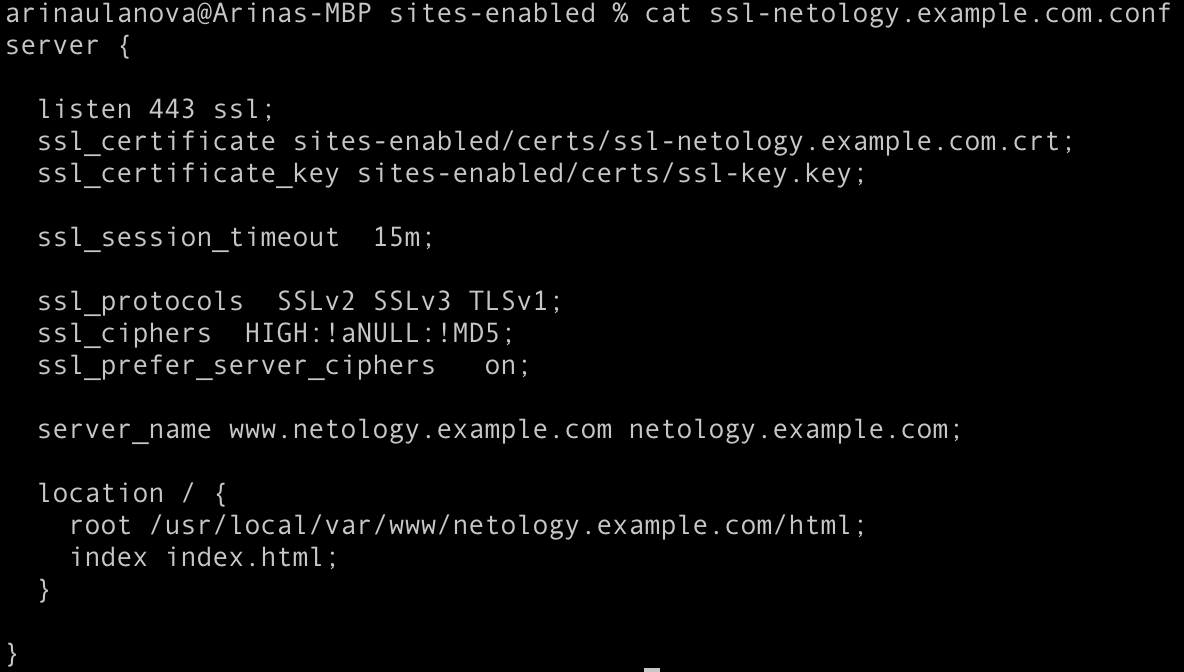
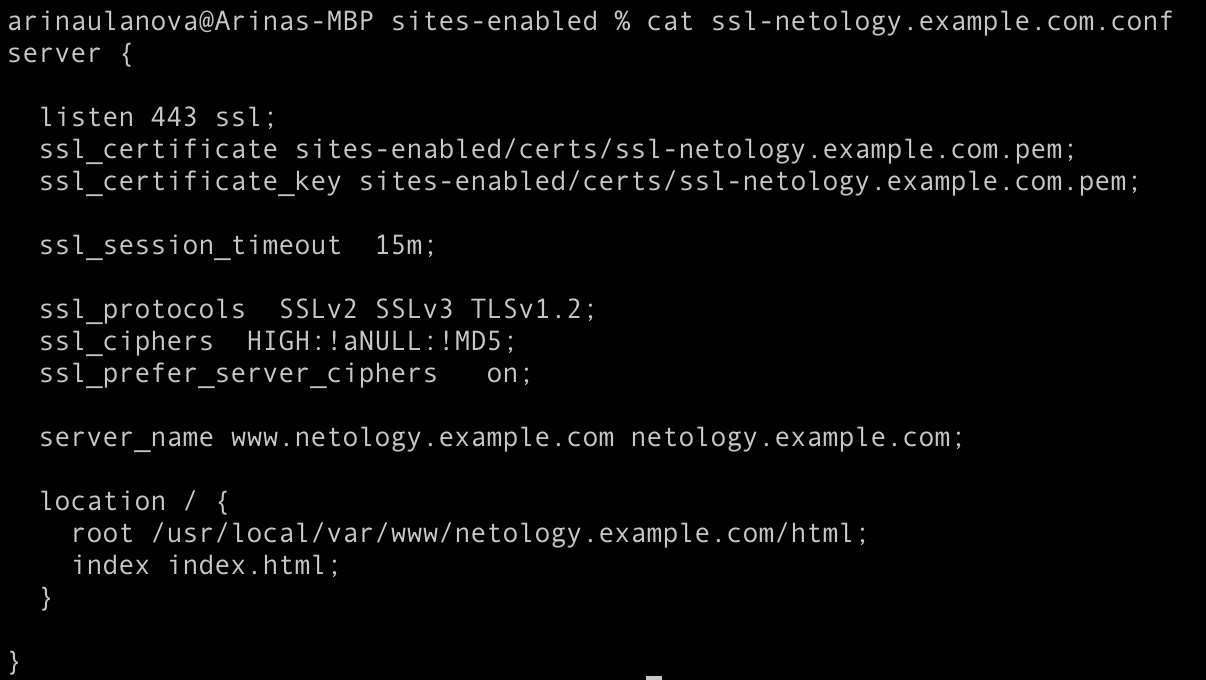
redo homework with https

diff --git a/homeworks/security.md b/homeworks/security.md
@@ -4,7 +4,7 @@
 ####4. 
 ![image info](images/security/pki_int.png)
 
-####5.
+####5&6.
 Конфиг для localhost:
 ![image info](images/security/conf.png)
 
@@ -13,3 +13,12 @@
 
 /etc/hosts:
 ![image info](images/security/etc_hosts.png)
+
+Результат:
+![image info](images/security/result.png)
+
+####7.
+Автоматизированная среда управления сертификатами (ACME) - это стандартный протокол для автоматизации проверки домена, установки и управления сертификатами X.509. 
+
+Let’s Encrypt — центр сертификации, предоставляющий бесплатные криптографические сертификаты X.509 для шифрования передаваемых через интернет данных HTTPS и других протоколах, используемых серверами в Интернете. Процесс выдачи сертификатов автоматизирован.
+Сервис предоставляется публичной организацией Internet Security Research Group (ISRG).
